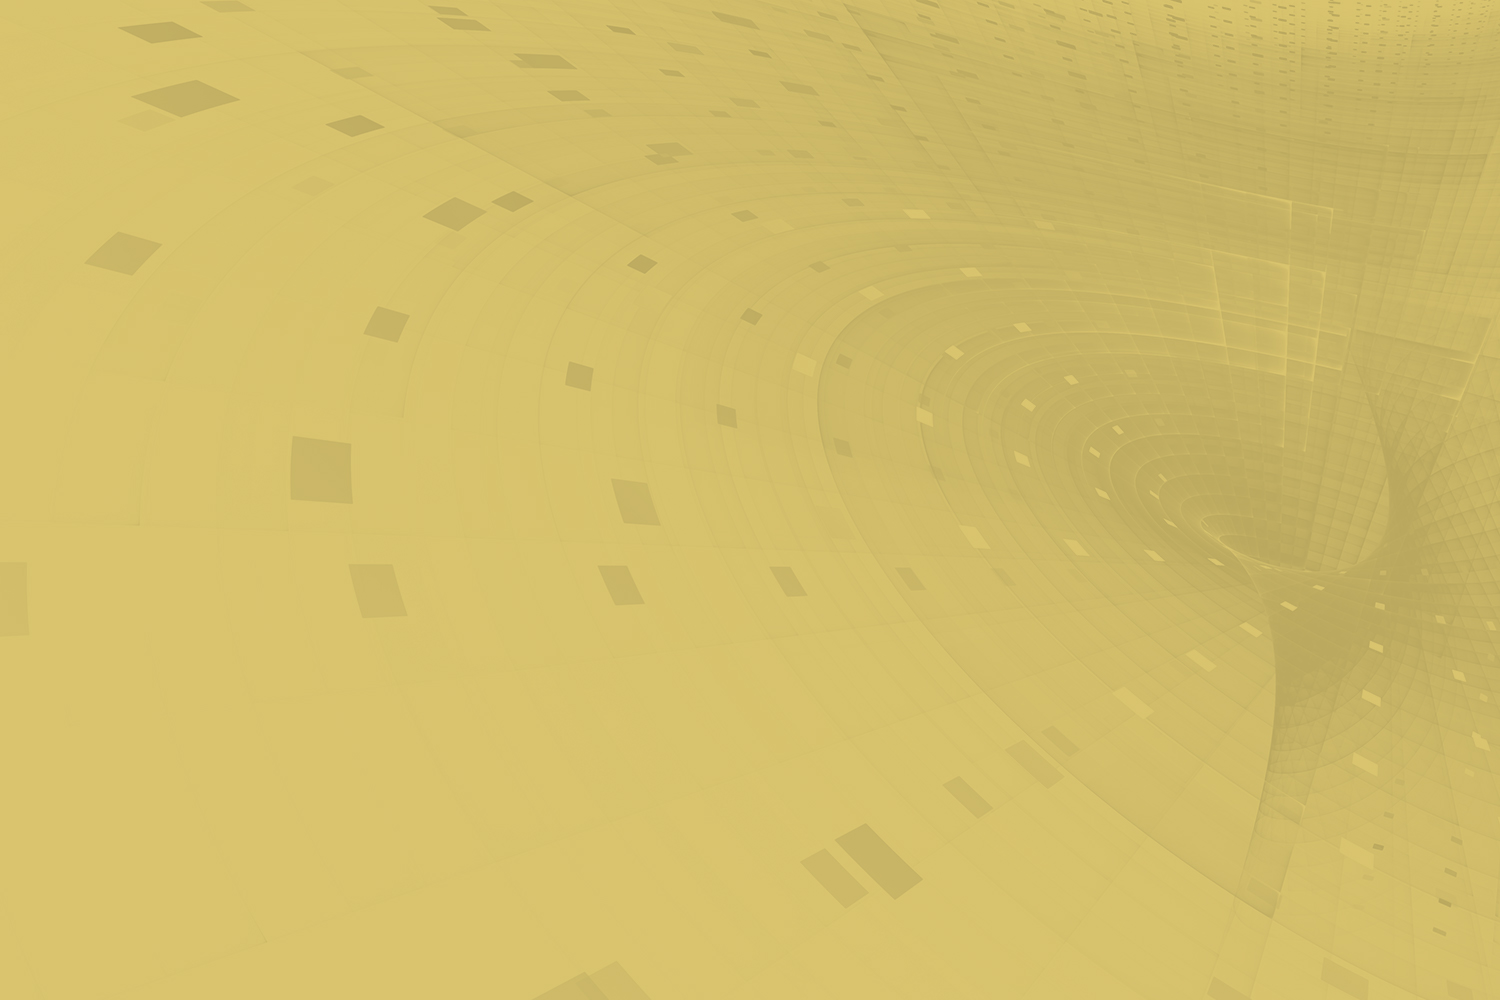
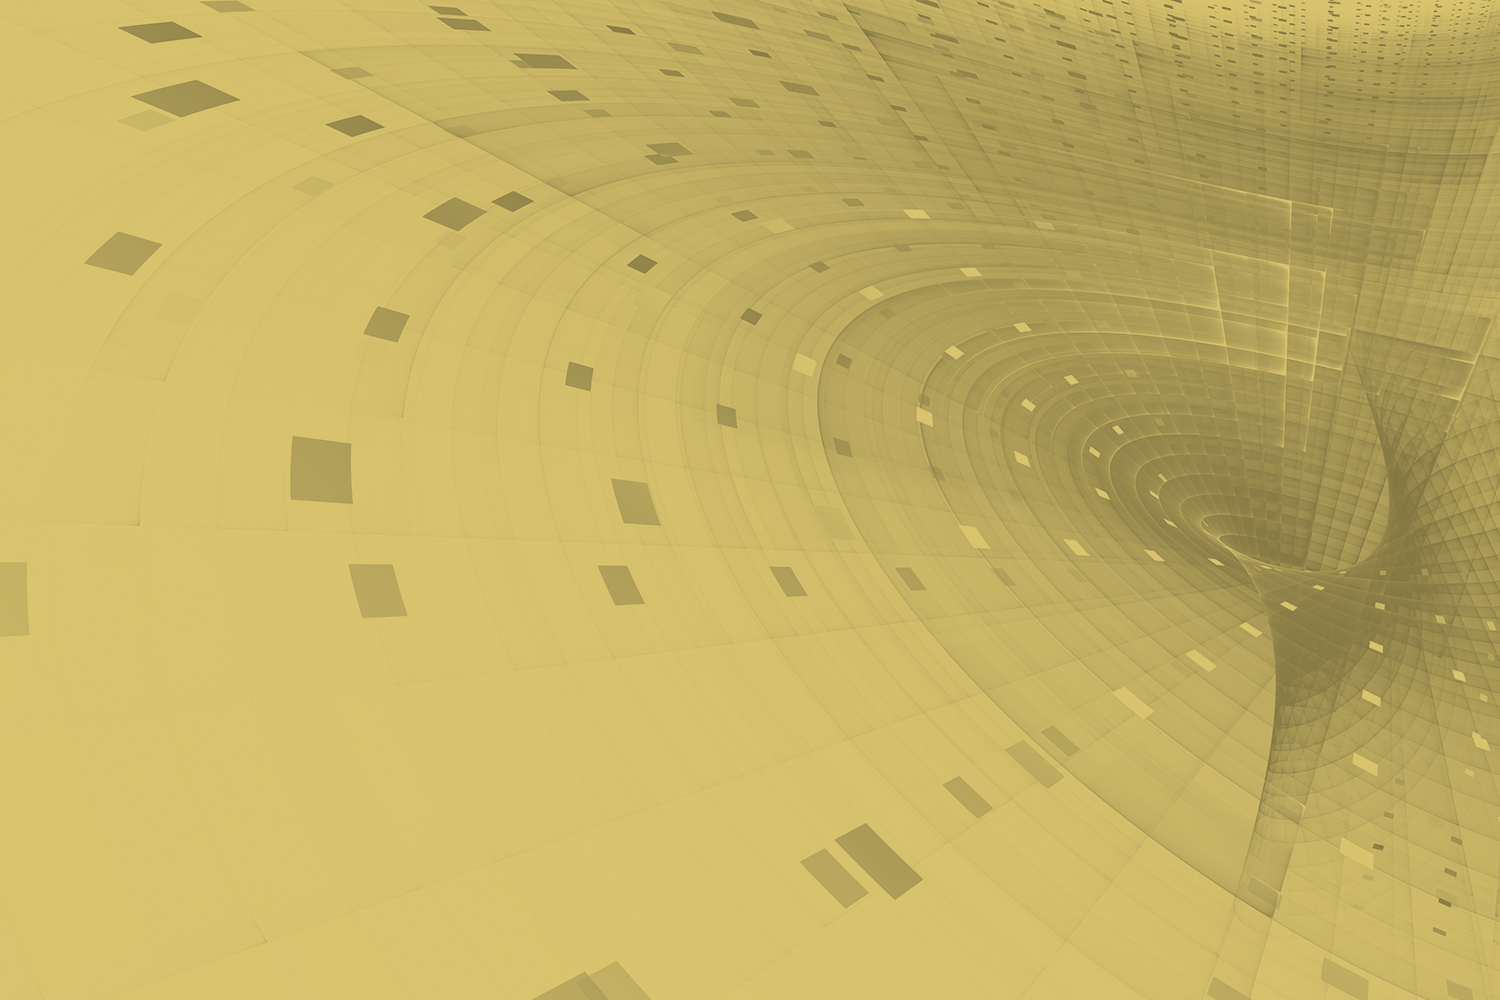
First pass News page

diff --git a/assets/scss/_components.post.scss b/assets/scss/_components.post.scss
@@ -1,0 +1,34 @@
+/*------------------------------------*\
+  #POST
+\*------------------------------------*/
+
+.post-list {
+  border-bottom: 1px solid $color-gray-light;
+  margin-bottom: double($spacing-unit);
+}
+
+.post-list__item {
+  padding: 0 $spacing-unit;
+
+  h2 {
+    @include font-size(30px, none);
+    font-weight: 300;
+    margin-bottom: $spacing-unit;
+    a {
+      color: $color-red-dark;
+    }
+  }
+}
+
+.byline {
+  text-transform: uppercase;
+  letter-spacing: 1px;
+}
+
+.byline__category {
+  color: $color-black;
+  margin-right: $spacing-unit;
+}
+
+.byline__date {
+}

diff --git a/assets/scss/_settings.scss b/assets/scss/_settings.scss
@@ -215,6 +215,7 @@ $code-background: $light-gray;
 $code-border: 1px solid $medium-gray;
 $code-padding: rem-calc(2 5 1);
 $anchor-color: $primary-color;
+// $anchor-color: $color-red-dark;
 $anchor-color-hover: scale-color($anchor-color, $lightness: -14%);
 $anchor-text-decoration: none;
 $anchor-text-decoration-hover: none;

diff --git a/assets/scss/_components.bands.scss b/assets/scss/_components.bands.scss
@@ -7,6 +7,11 @@
   padding-bottom: double($spacing-unit);
 }
 
+.band--small {
+  padding-top: $spacing-unit;
+  padding-bottom: $spacing-unit;
+}
+
 .band--special {
   /* Permalink - use to edit and share this gradient: http://colorzilla.com/gradient-editor/#eadda8+0,ffffff+33&1+0,0+33 */
   @include breakpoint(medium) {

diff --git a/assets/scss/_components.hero.scss b/assets/scss/_components.hero.scss
@@ -81,6 +81,13 @@
   border-bottom: 6px solid $color-red-dark;
 }
 
+.hero--gold-4 {
+  background-image: url('../images/header-gold-4.jpg');
+  // background-position: bottom;
+  background-size: cover;
+  border-bottom: 6px solid $color-red-dark;
+}
+
 .hero--gray-1 {
   h1.hero__text {
     color: $color-white;

diff --git a/assets/scss/foundation.scss b/assets/scss/foundation.scss
@@ -133,6 +133,7 @@
 @import "components.map";
 @import "components.menus";
 @import "components.team-members";
+@import "components.post";
 
 // Trumps: Helpers and overrides.
 @import "trumps.headings";

diff --git a/page-careers.php b/page-careers.php
@@ -5,17 +5,30 @@
  *
  */
 /*
-Careers at House Advantage
-
-Grow your skills and expand your horizons at House Advantage.
-
-Are you looking for a job with high impact? Work that’s relevant, stimulating and meaningful, where you can learn new, marketable skills and expand your professional growth across a variety of disciplines?
-
-House Advantage is a global company based in Las Vegas that develops leading edge loyalty program software that serves some of the world’s largest gaming and entertainment companies.  At House Advantage, you get to work closely with key marketing leaders who provide support and consultation on loyalty strategy, new product development, programs and direct patron campaigns.  We offer challenging, high-profile development opportunities for candidates looking to be part of something great.
-
-Inquire about joining the House Advantage team at talent@houseadv.com.
-
-[CTA button].
+Software Developer
+The software engineer (developer) will be delivering software releases, which includes development of web applications, Windows thick client applications, Windows services, and Administrator clients for web and windows. 
+Requirements:
+·         5+ years using C#.NET to design, modify, and implement software
+·         Proficient with Microsoft SQL server architecture
+·         Proficient with Object Oriented programming
+·         Experience with Stored procedures, functions, and reports
+ 
+System Engineer
+The Systems Engineer will need support the internal teams and external customers by troubleshooting stored procedures, mine data anomalies, run traces, interfaces and integration.  As the go-to contact, the system engineer will need to understand what the service layers are doing and why our HALo application behaves the way it does.
+Requirements
+·         Expert level in Microsoft SQL Server 2008 or greater
+·         Have a solid working knowledge of XML and messaging
+·         Highly familiar with complex database and OO concepts
+·         Experienced with client/server and IIS architectures
+·         Must have a casino marketing application background; or experience working in the slot/gaming industry
+ 
+Product Manager
+The Product Manager is the product expert, knowing the HALo software inside and out in order to best support the customer’s needs. This role will regularly be planning meetings and installations, explaining functionality, managing and being the point of contact for the customer, and is technical enough to troubleshoot the product for QA testing and if something goes wrong.
+Requirements:
+·         Functional and practical knowledge of project management. 2 years of project management experience
+·         Demonstrated ability to train, document, troubleshoot, and describe promotions to customers
+·         Aptitude and experience with technical concepts involving VPN, CMS connections, certificates, and Microsoft SQL
+·         Must have a casino marketing application background; or experience working in the slot/gaming industry
  */
 
 get_header(); ?>
@@ -65,21 +78,56 @@ get_header(); ?>
 
 <section class="band">
   <div class="row">
-    <div class="large-6  column">
-      <p>Are you looking for a job with high impact? Work that’s relevant, stimulating and meaningful, where you can learn new, marketable skills and expand your professional growth across a variety of disciplines?</p>
-      <p>House Advantage is a global company based in Las Vegas that develops leading edge loyalty program software that serves some of the world’s largest gaming and entertainment companies.  At House Advantage, you get to work closely with key marketing leaders who provide support and consultation on loyalty strategy, new product development, programs and direct patron campaigns.  We offer challenging, high-profile development opportunities for candidates looking to be part of something great.</p>
-      <!-- <p>Inquire about joining the House Advantage team at <a href="mailto:talent@houseadv.com">talent@houseadv.com</a>.</p> -->
-      <a href="mailto:talent@houseadv.com" class="button  hvr-sweep-to-right">Inquire Today</a>
-    </div>
-    <div class="large-6  column">
-    <?php /*
-      <img src="<?php bloginfo('template_url'); ?>/assets/images/abstract-48322126.jpg" alt="" />
-      <img src="<?php bloginfo('template_url'); ?>/assets/images/hands-coding-1.jpg" alt="" />
-     */ ?>
-      <img class="thumbnail" src="http://placehold.it/500x500">
-    </div>
+    <p>Are you looking for a job with high impact? Work that’s relevant, stimulating and meaningful, where you can learn new, marketable skills and expand your professional growth across a variety of disciplines?</p>
+    <p>House Advantage is a global company based in Las Vegas that develops leading edge loyalty program software that serves some of the world’s largest gaming and entertainment companies.  At House Advantage, you get to work closely with key marketing leaders who provide support and consultation on loyalty strategy, new product development, programs and direct patron campaigns.  We offer challenging, high-profile development opportunities for candidates looking to be part of something great.</p>
+    <!-- <p>Inquire about joining the House Advantage team at <a href="mailto:talent@houseadv.com">talent@houseadv.com</a>.</p> -->
+    <!-- <a href="mailto:talent@houseadv.com" class="button  hvr&#45;sweep&#45;to&#45;right">Inquire Today</a> -->
   </div>
 </section>
+<h2>Open Positions</h2>
+<div class="[ band  band--small  band--tint ] ">
+  <div class="row  column">
+    <h3>Software Developer</h3>
+    <p>The software engineer (developer) will be delivering software releases, which includes development of web applications, Windows thick client applications, Windows services, and Administrator clients for web and windows.</p>
+    <h4>Requirements</h4>
+    <ul>
+      <li>5+ years using C#.NET to design, modify, and implement software</li>
+      <li>Proficient with Microsoft SQL server architecture</li>
+      <li>Proficient with Object Oriented programming</li>
+      <li>Experience with Stored procedures, functions, and reports</li>
+    </ul>
+    <a href="mailto:talent@houseadv.com" class="small  button  hvr-sweep-to-right">Inquire Today</a>
+  </div>
+</div>
+<div class="[ band  band--small ]">
+  <div class="row  column">
+    <h3>System Engineer</h3>
+    <p>The Systems Engineer will need support the internal teams and external customers by troubleshooting stored procedures, mine data anomalies, run traces, interfaces and integration.  As the go-to contact, the system engineer will need to understand what the service layers are doing and why our HALo application behaves the way it does.</p>
+    <h4>Requirements</h4>
+    <ul>
+      <li>Expert level in Microsoft SQL Server 2008 or greater</li>
+      <li>Have a solid working knowledge of XML and messaging</li>
+      <li>Highly familiar with complex database and OO concepts</li>
+      <li>Experienced with client/server and IIS architectures</li>
+      <li>Must have a casino marketing application background; or experience working in the slot/gaming industry</li>
+    </ul>
+    <a href="mailto:talent@houseadv.com" class="small  button  hvr-sweep-to-right">Inquire Today</a>
+  </div>
+</div>
+<div class="[ band  band--small  band--tint ]">
+  <div class="row  column">
+    <h3>Product Manager</h3>
+    <p>The Product Manager is the product expert, knowing the HALo software inside and out in order to best support the customer’s needs. This role will regularly be planning meetings and installations, explaining functionality, managing and being the point of contact for the customer, and is technical enough to troubleshoot the product for QA testing and if something goes wrong.</p>
+    <h4>Requirements</h4>
+    <ul>
+      <li>Functional and practical knowledge of project management. 2 years of project management experience</li>
+      <li>Demonstrated ability to train, document, troubleshoot, and describe promotions to customers</li>
+      <li>Aptitude and experience with technical concepts involving VPN, CMS connections, certificates, and Microsoft SQL</li>
+      <li>Must have a casino marketing application background; or experience working in the slot/gaming industry</li>
+    </ul>
+    <a href="mailto:talent@houseadv.com" class="small  button  hvr-sweep-to-right">Inquire Today</a>
+  </div>
+</div>
 
 
 <?php get_footer();

diff --git a/home.php b/home.php
@@ -8,24 +8,60 @@ get_header(); ?>
 
 <header class="hero  hero--gold-3" role="banner">
   <div class="row  column">
+      <?php foundationpress_entry_meta(); ?>
+    <h1 class="hero__text">
+      <a href="<?php the_permalink(); ?>"><?php the_title(); ?></a>
+    </h1>
+        <?php /*
     <?php if ( get_field('hero_head') ) : ?>
       <h1 class="hero__text"><?php the_field('hero_head'); ?></h1>
     <?php endif; ?>
     <?php if ( get_field('hero_subhead') ) : ?>
       <p class="hero__text"><?php the_field('hero_subhead'); ?></p>
     <?php endif; ?>
+         */ ?>
   </div>
 </header>
 
 <div class="band" role="main">
-  <div class="row">
-    <div class="medium-9  column">
-      <article class="main-content">
+  <!-- <div class="row"> -->
+    <!-- <div class="medium&#45;9  column"> -->
+      <!-- <article class="main&#45;content"> -->
       <?php if ( have_posts() ) : ?>
+
+      <div class="row  small-up-1  medium-up-2" data-equalizer data-equalize-by-row="true">
 
         <?php /* Start the Loop */ ?>
         <?php while ( have_posts() ) : the_post(); ?>
-          <?php get_template_part( 'template-parts/content', get_post_format() ); ?>
+
+        <div class="column">
+          <!-- <article class="main&#45;content"> -->
+          <div class="post-list" data-equalizer-watch>
+            <div id="post-<?php the_ID(); ?>" <?php post_class('blogpost-entry, post-list__item'); ?>>
+                <?php foundationpress_entry_meta(); ?>
+                <h2>
+                  <a href="<?php the_permalink(); ?>"><?php the_title(); ?></a>
+                </h2>
+                <?php /*
+                <?php if(has_post_thumbnail()) :
+                  the_post_thumbnail();
+                else : ?>
+                  <img src="http://placehold.it/1140x500" alt="" />
+                <?php endif; ?>
+                 */ ?>
+              <?php /*
+              <div class="entry-content">
+                <?php the_content( __( 'Continue reading...', 'foundationpress' ) ); ?>
+              </div>
+              <footer>
+                <?php $tag = get_the_tags(); if ( $tag ) { ?><p><?php the_tags(); ?></p><?php } ?>
+              </footer>
+               */ ?>
+            </div>
+          </div>
+            <!-- <hr /> -->
+        </div>
+          <?php /* get_template_part( 'template-parts/content', get_post_format() ); */ ?>
         <?php endwhile; ?>
 
         <?php else : ?>
@@ -41,12 +77,14 @@ get_header(); ?>
           </nav>
         <?php } ?>
 
-      </article>
-    </div>
+      <!-- </article> -->
+    <!-- </div> -->
     <!-- <div class="medium&#45;3  column"> -->
       <?php /* get_sidebar(); */ ?>
     <!-- </div> -->
-  </div>
+  <!-- </div> -->
+    </div>
+
 
 </div>
 

diff --git a/template-parts/content.php b/template-parts/content.php
@@ -10,23 +10,32 @@
 
 ?>
 
-<!-- <div class="row  medium&#45;8  large&#45;7  column"> -->
-  <div id="post-<?php the_ID(); ?>" <?php post_class('blogpost-entry'); ?>>
-    <header>
-      <h2><a href="<?php the_permalink(); ?>"><?php the_title(); ?></a></h2>
-      <?php foundationpress_entry_meta(); ?>
-      <?php if(has_post_thumbnail()) :
-        the_post_thumbnail();
-      else : ?>
-        <img src="http://placehold.it/1140x500" alt="" />
-      <?php endif; ?>
-    </header>
-    <div class="entry-content">
-      <?php the_content( __( 'Continue reading...', 'foundationpress' ) ); ?>
+
+<div class="column">
+  <article class="main-content">
+    <div id="post-<?php the_ID(); ?>" <?php post_class('blogpost-entry'); ?>>
+      <header>
+        <h2 class="gamma">
+          <a href="<?php the_permalink(); ?>"><?php the_title(); ?></a>
+        </h2>
+        <?php foundationpress_entry_meta(); ?>
+        <?php /*
+        <?php if(has_post_thumbnail()) :
+          the_post_thumbnail();
+        else : ?>
+          <img src="http://placehold.it/1140x500" alt="" />
+        <?php endif; ?>
+         */ ?>
+      </header>
+      <?php /*
+      <div class="entry-content">
+        <?php the_content( __( 'Continue reading...', 'foundationpress' ) ); ?>
+      </div>
+      <footer>
+        <?php $tag = get_the_tags(); if ( $tag ) { ?><p><?php the_tags(); ?></p><?php } ?>
+      </footer>
+       */ ?>
     </div>
-    <footer>
-      <?php $tag = get_the_tags(); if ( $tag ) { ?><p><?php the_tags(); ?></p><?php } ?>
-    </footer>
+  </article>
     <hr />
-  </div>
-<!-- </div> -->
+</div>

diff --git a/template-parts/content-none.php b/template-parts/content-none.php
@@ -11,23 +11,23 @@
 ?>
 
 <header class="page-header">
-	<h1 class="page-title"><?php _e( 'Nothing Found', 'foundationpress' ); ?></h1>
+  <h1 class="page-title"><?php _e( 'Nothing Found', 'foundationpress' ); ?></h1>
 </header>
 
 <div class="page-content">
-	<?php if ( is_home() && current_user_can( 'publish_posts' ) ) : ?>
+  <?php if ( is_home() && current_user_can( 'publish_posts' ) ) : ?>
 
-	<p><?php printf( __( 'Ready to publish your first post? <a href="%1$s">Get started here</a>.', 'foundationpress' ), admin_url( 'post-new.php' ) ); ?></p>
+  <p><?php printf( __( 'Ready to publish your first post? <a href="%1$s">Get started here</a>.', 'foundationpress' ), admin_url( 'post-new.php' ) ); ?></p>
 
-	<?php elseif ( is_search() ) : ?>
+  <?php elseif ( is_search() ) : ?>
 
-	<p><?php _e( 'Sorry, but nothing matched your search terms. Please try again with some different keywords.', 'foundationpress' ); ?></p>
-	<?php get_search_form(); ?>
+  <p><?php _e( 'Sorry, but nothing matched your search terms. Please try again with some different keywords.', 'foundationpress' ); ?></p>
+  <?php get_search_form(); ?>
 
-	<?php else : ?>
+  <?php else : ?>
 
-	<p><?php _e( 'It seems we can&rsquo;t find what you&rsquo;re looking for. Perhaps searching can help.', 'foundationpress' ); ?></p>
-	<?php get_search_form(); ?>
+  <p><?php _e( 'It seems we can&rsquo;t find what you&rsquo;re looking for. Perhaps searching can help.', 'foundationpress' ); ?></p>
+  <?php get_search_form(); ?>
 
-	<?php endif; ?>
+  <?php endif; ?>
 </div>

diff --git a/library/entry-meta.php b/library/entry-meta.php
@@ -8,7 +8,11 @@
 
 if ( ! function_exists( 'foundationpress_entry_meta' ) ) :
   function foundationpress_entry_meta() {
-    echo '<time class="updated" datetime="' . get_the_time( 'c' ) . '">' . sprintf( __( 'Posted on %s at %s.', 'foundationpress' ), get_the_date(), get_the_time() ) . '</time>';
+    $category = get_the_category();
+    echo '<span class="byline  byline__category">' . $category[0]->cat_name . '</span>';
+    echo '<time class="byline  byline__date  updated" datetime="' . get_the_time( 'c' ) . '">' . sprintf( __( '%s', 'foundationpress' ), get_the_date(), get_the_time() ) . '</time>';
+    /*
     echo '<p class="byline author">' . __( 'Written by', 'foundationpress' ) . ' <a href="' . get_author_posts_url( get_the_author_meta( 'ID' ) ) . '" rel="author" class="fn">' . get_the_author() . '</a></p>';
+     */
   }
 endif;

diff --git a/page-the-house-advantage.php b/page-the-house-advantage.php
@@ -7,7 +7,7 @@
 
  get_header(); ?>
  <?php get_template_part( 'template-parts/featured-image' ); ?>
-<header class="hero  hero--gold-2" role="banner">
+<header class="hero  hero--gold-4" role="banner">
   <div class="row  column">
     <?php if ( get_field('hero_head') ) : ?>
       <h1 class="hero__text"><?php the_field('hero_head'); ?></h1>
